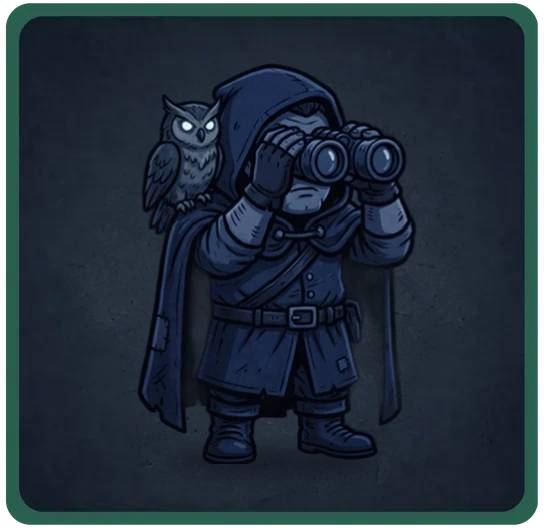
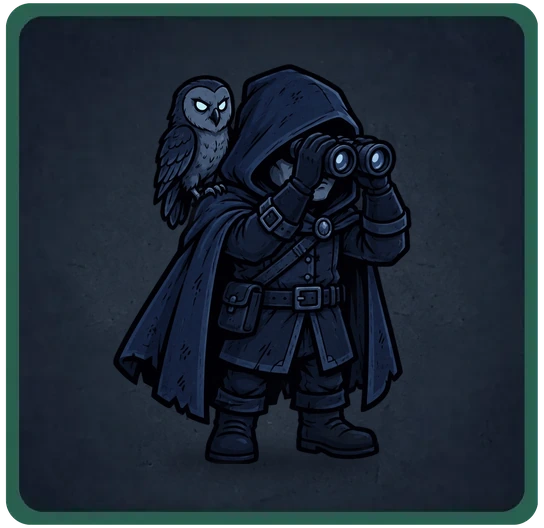
Tips for every role (39 more, drafted for Nik's review); new Watchman picture from Nik's Shutterstock card; service worker cache v5 (13 Nov)

Changed region(s): [[0.1875, 0.1212, 0.7812, 0.8788]]

diff --git a/src/tips.ts b/src/tips.ts
@@ -1,6 +1,6 @@
 // Tips on role cards (Nik, 13 Nov): 2 to 10 short pointers on how to play a role and use what it learns.
 // Drafted by Creative Coach from each card's rules, for Nik's review. Shown under the Attack and Defence block.
-// Investigative roles first (Detective approved by Nik; the other seven drafted for review, 13 Nov).
+// Every role has tips (13 Nov): Detective approved by Nik; the rest drafted for his review.
 export const TIPS: Record<string, string[]> = {
   Archivist: [
     "You learn which roles are in play, not who has them. Use your list to test what people claim.",
@@ -68,5 +68,268 @@ export const TIPS: Record<string, string[]> = {
     "Follow players who claim a role: a Doctor who never visits anyone is not much of a Doctor.",
     "If your target was swapped or led astray, you see where they ended up, not where they meant to go.",
     "On a Fog Night, while the Hollowman lives, your result is random.",
+  ],
+
+  // Lanternkeepers: protective, killing, power and support (drafted for Nik's review, 13 Nov).
+  Guardsman: [
+    "Guard whoever the evil side most wants gone: a player who has just shared strong results.",
+    "If you die guarding, look at who else died that Night. One of them was probably the attacker.",
+    "You only strike visitors who meant harm, so a Doctor or investigator at your target's house is safe.",
+    "A Doctor on the same player keeps you alive: only the attacker dies.",
+    "If your target dies anyway, it was something you can't stop: the Assassin, a Debt, the Trigger or the Veteran.",
+    "Being told you saved someone means they were attacked, so they are unlikely to be on the attacker's side.",
+  ],
+  Doctor: [
+    "Heal the players with the most to lose: investigators who have shared results, or anyone the town now trusts.",
+    "Being told your Heal saved someone means they were attacked. That is a good sign they are not evil.",
+    "Keep your self-Heal for the Night after you go public, when you are most likely to be hit.",
+    "On a Clear Night, healing the Hollowman's target saves them but costs your life.",
+    "A healed player who dies anyway was hit by an Absolute Attack: the Assassin, a Debt, the Trigger or the Rogue's guilt.",
+    "Healing a Guardsman lets him survive his own strike back.",
+  ],
+  Hunter: [
+    "Set your trap on the player the evil side is most likely to visit, such as someone loud with results.",
+    "A trap that never goes off means nobody has visited that player since you set it.",
+    "Lanternkeeper visitors get Held too, so trapping a popular player can block your own Doctor or investigators.",
+    "You still build your trap if you are Held or led astray, so odd Nights are never wasted.",
+    "If an evil visitor dies to your trap, your target is likely on the town's side.",
+  ],
+  Veteran: [
+    "You have two Alerts. Save them for Nights you expect visitors, such as after you've drawn attention in the Day.",
+    "On Alert you kill every visitor, Doctors and investigators included. Tell trusted players when to stay away.",
+    "Compare the number you killed with the deaths at dawn to work out who visited you.",
+    "Letting the town think you might be on Alert can keep the evil side away from you.",
+    "A Doctor can save the visitors you kill, but a Guardsman can't.",
+  ],
+  Rogue: [
+    "You have one bullet. Wait until two or more results point the same way.",
+    "Shooting a Lanternkeeper kills you the next Night. Framed and Disguised make no difference: only their true side counts.",
+    "A Light Attack fails against any defence, so the Godfather and the Cartel's leaders survive it. Aim at players with none.",
+    "Your shot is a good answer to a player the town can't agree to vote out.",
+    "If you are raised by the Priest, you get one bullet back.",
+  ],
+  Mayor: [
+    "Reveal when your three votes decide a Trial, not before. Until then you are just another voice.",
+    "Once Revealed you are the evil side's top target, and your own Protective roles can't help you.",
+    "Pass on what you know before you Reveal. Afterwards you can't have private conversations.",
+    "The narrator confirms a real Reveal. A player who claims to be Mayor but never Reveals is worth doubting.",
+    "If the Swindler Deals your role away before you Reveal, your Reveal won't happen.",
+  ],
+  Judge: [
+    "Condemn only works when nobody is on Trial. Use it when the vote stalls on a player you're sure of.",
+    "Condemning a Lanternkeeper costs your life, so wait for results that agree.",
+    "Your Condemn still reaches a player sent away by Passage.",
+    "Once Revealed you are a target and can't be protected by your side. Reveal when you have a clear suspect.",
+    "You can Condemn once every Day for as long as you live, so one Reveal can decide several Days.",
+  ],
+  Warden: [
+    "Patrol an investigator to check their claims. If they are honest, their results match what they tell the town.",
+    "Patrol a suspect: if they receive an exact role at Night, they are the Informant or the Notary.",
+    "Patrol the players most likely to be attacked. If they die, you learn who killed them.",
+    "You can't Patrol the same player three Nights in a row, so plan a second target.",
+    "Deceptive roles can change what you receive, so check a surprising result against others.",
+  ],
+  Innkeeper: [
+    "Drawing a suspected killer saves their target, but their attack lands on you.",
+    "Your shelter gives every visitor Light Defence, whatever their side. That can save an evil visitor from a Light Attack too.",
+    "A drawn player isn't told, so a player whose result makes no sense may have been drawn to you.",
+    "Draw the player you think is the evil side's Holder: their Hold lands on you instead of a protector.",
+    "If you are Held, nobody gets your shelter that Night.",
+  ],
+  Locksmith: [
+    "Hold the player you think is a killer. A Held killer kills nobody.",
+    "Never Hold the Ripper, or the Hollowman on a Clear Night: you will be attacked. If a Locksmith dies after a Hold, the town should look hard at who was Held.",
+    "A player who says they were Held when you didn't Hold them was Held by the evil side, or is lying.",
+    "The Fence can move your Hold to a neighbour, and the Pawnbroker can draw it. A Hold that seems to do nothing may have been moved.",
+    "Holding a Lanternkeeper by mistake stops their ability for the Night, so be careful with players who claim to protect or investigate.",
+  ],
+  Medium: [
+    "Wait for a strong Lanternkeeper to die. A fresh Doctor, Veteran or Rogue is worth more than an early pick.",
+    "A failed channel means the dead player was not a Lanternkeeper, or was a Power role. That is information the town doesn't have.",
+    "Once you take a new role, you are that role. Decide whether to tell the town, since you may become a target.",
+    "If you and the Priest pick the same dead player, you still become their role.",
+  ],
+  Priest: [
+    "Raise a Lanternkeeper who mattered: an investigator with results to finish, or a Veteran or Rogue.",
+    "A failed raising tells you the dead player was not a Lanternkeeper. You keep your raising for another Night.",
+    "Raised players come back clean: no Debt, Plant or Frame from before.",
+    "The whole town sees a lantern relit, so a raising also tells everyone a Priest is alive.",
+    "Raising a body the Coroner wanted stops them using it that Night.",
+  ],
+  Ferryman: [
+    "Swap a likely target with a suspect, and the attack may land on the suspect instead.",
+    "Swapped players are told, so warn a trusted player in advance and they'll know it was you.",
+    "Your swap always goes first. If the Smuggler targets a player you swapped, their swap fails.",
+    "Swapping also moves investigators' visits, so their results end up about the other player. Don't confuse your own side.",
+    "Swaps don't save Planted players from the Trigger.",
+  ],
+
+  // Syndicate (drafted for Nik's review, 13 Nov).
+  Mobster: [
+    "Agree the target with the Godfather in the Night chat. His choice beats yours.",
+    "When you carry out the hit, investigators see your visit, not his. You are the one most likely to be caught.",
+    "A Light Attack fails against any defence. Pick players unlikely to be protected or on Alert.",
+    "If the Godfather dies you take his place, so staying alive matters.",
+    "A Constable reads you Evil. Have a believable claim ready before the Day.",
+  ],
+  Godfather: [
+    "The Constable, Oracle and Seer read you as a Lanternkeeper. The Detective and the Spy don't.",
+    "Let the Mobster carry out the hit: his visit is the one investigators see.",
+    "Your Light Defence stops the Rogue's shot and the Ripper.",
+    "Agree a backup target with the Mobster in case you are Held.",
+    "Hitting a guarded player can cost you the Mobster to the Guardsman's strike back.",
+  ],
+  Enforcer: [
+    "Hold whoever is most likely to protect or investigate tonight's target.",
+    "Holding the Veteran stops his Alert, which makes him safe to hit that Night.",
+    "Never Hold the Ripper, or the Hollowman on a Clear Night.",
+    "Held players are told, and they'll say so in the Day. If the town knows a Locksmith is alive, the blame may fall there.",
+  ],
+  Informant: [
+    "Exact roles let the Syndicate choose: find the Doctor, the Guardsman and the investigators first.",
+    "A Tinkerer result may be a Planted player. The real Tinkerer is Unbound, not on your list of allies.",
+    "You see past your own Framer: Framed players still show their true role.",
+    "You know real roles, so you can make a convincing false claim as an investigator in the Day.",
+  ],
+  Fence: [
+    "Lead the Doctor or Guardsman away from tonight's target.",
+    "Leading the Locksmith astray moves their Hold, even when it was meant for you.",
+    "You can't lead astray the Seer, the Ferryman or the Assassin, so don't waste a Night on them.",
+    "A Tracker who reports a visit to an odd house may have followed someone you sent there.",
+  ],
+  Tailor: [
+    "Disguise the Syndicate member most likely to be checked, such as one who drew suspicion today.",
+    "Dress them as a living Lanternkeeper with a believable role. A disguise as a dead player can look strange to a Watchman.",
+    "A disguise lasts only until the next Night, so disguise again whoever is still at risk.",
+    "A Planted Syndicate member still shows Killing to the Detective, disguise or not.",
+    "You can disguise yourself when you are the one under suspicion.",
+  ],
+  Framer: [
+    "Frame the player the town trusts most. A Constable's Evil result can get them voted out.",
+    "Frame the players investigators are likely to check, such as the loudest voices.",
+    "The Detective sees a Framed player as Deceptive and the Informant sees the truth, so vary your targets.",
+    "A Frame beats the Tinkerer's Plant on the same player.",
+  ],
+
+  // Cartel (drafted for Nik's review, 13 Nov).
+  "Harbour Master": [
+    "Passage on odd Nights: ship out a Cartel member who is about to be voted on, or a player who would swing the vote.",
+    "Only the Judge can still Condemn a player you shipped out.",
+    "Guns on even Nights turn a Cartel member's visit into a kill as well. A Notary or Quartermaster with Guns does both.",
+    "You read as a Lanternkeeper to the Constable, Oracle and Seer, and your Light Defence stops the Rogue.",
+  ],
+  "Loan Shark": [
+    "Debtors aren't told who you are and must guess who to pay. Stay unsuspected and they'll guess wrong.",
+    "Anyone who visits you falls into Debt, so investigators and Doctors pay for coming near you.",
+    "You learn the exact role of everyone you visit and everyone who visits you. Share it in the Cartel chat.",
+    "A debtor who is Held can't pay. A Quartermaster's Hold on their Collection Night makes the Debt certain.",
+    "If you die, every Debt clears. Keeping you alive matters to the whole Cartel.",
+  ],
+  Kingpin: [
+    "Command the member whose ability is worth most twice: two checks for the Notary, two Holds for the Quartermaster.",
+    "The rest of the Cartel doesn't know you. Read the Night chat and choose quietly.",
+    "Your Heavy Defence lasts only while another Cartel member is alive.",
+    "Once you are alone, recruit a Foreman. A failed recruit means that player is a Power role or an Unbound killer.",
+    "You read as a Lanternkeeper to the Constable, Oracle and Seer.",
+  ],
+  Foreman: [
+    "You are the Cartel's main killer, and the Kingpin can't Command you.",
+    "You don't know the Kingpin. An attack that fails on an unprotected player may have hit his Heavy Defence.",
+    "A Constable reads you Evil. Have a believable claim ready.",
+    "If you die, another Cartel member may take your place, so the killing doesn't have to stop with you.",
+  ],
+  Quartermaster: [
+    "Your Hold also gives Heavy Defence. Never Hold the player your Foreman is attacking.",
+    "Hold a debtor on their Collection Night: they can't pay, and the Debt's Absolute Attack beats your Heavy Defence.",
+    "Hold the Doctor or Guardsman protecting tonight's target.",
+    "Never Hold the Ripper, or the Hollowman on a Clear Night.",
+  ],
+  Paymaster: [
+    "Bribe a swing voter: their vote counts zero and yours counts two, a two-vote swing on a close Trial.",
+    "A bribe on a Power role fails, so don't spend it on the Mayor or the Judge.",
+    "Bribe the player most likely to vote against a Cartel member on Trial.",
+    "Vote with the crowd when you can. A lone double vote stands out.",
+  ],
+  Coroner: [
+    "Borrow a dead investigator's ability to check a player of your choice.",
+    "You learn the dead player's role, a private confirmation the town doesn't get until the end.",
+    "A Tracker sees you visit the dead, which narrows you to the Medium, Priest or Coroner. Claim one of the other two.",
+    "If the Priest raises your body that Night, you lose it. Pick bodies the Priest is unlikely to want.",
+  ],
+  Notary: [
+    "Find the Doctor and the investigators for the Foreman.",
+    "A Tinkerer result may be a Planted player.",
+    "With the Kingpin's Command you check two players; with the Harbour Master's Guns your check is also a kill.",
+    "Exact roles let you make a convincing false claim as an investigator.",
+  ],
+  Forger: [
+    "Visit the investigator most likely to check a Cartel member tonight.",
+    "A forged result is false even on a Fog Night, and it sounds certain. That can get a Lanternkeeper voted out.",
+    "Forging only works on Investigative roles. Use the Notary's and Loan Shark's results to find them first.",
+    "If an investigator's claims start to clash with everyone else's, the town may stop trusting them. Keep at it.",
+  ],
+  Smuggler: [
+    "Swap tonight's target with the player the Doctor is likely to Heal, so the protection lands in the wrong house.",
+    "If your swap fails, the Ferryman touched one of your players. He is in the game.",
+    "You can't be Held, so your swap always happens unless the Ferryman got there first.",
+    "Swapped players are told, so the town learns a swapper is active. Be ready to claim Ferryman.",
+  ],
+  Pawnbroker: [
+    "Draw the Doctor or Guardsman: their protection lands on you and leaves tonight's target open.",
+    "Draw the Locksmith and their Hold lands on you instead of a Cartel member.",
+    "Don't draw an investigator: their check lands on you, and a Detective would see Deceptive.",
+    "Drawing a killer brings their attack to you, and you have no defence.",
+  ],
+  Swindler: [
+    "Deal a Power role away before it is Revealed. An unrevealed Mayor or Judge loses their Reveal that Night.",
+    "Players are told their new role but not who had it, so the Day's claims stop matching. Use the confusion.",
+    "Statuses stay with the player: a debtor stays in Debt, and a Planted player stays Planted.",
+    "You get one Deal. Wait for a target that changes the game, and keep it if it fails.",
+  ],
+
+  // Unbound (drafted for Nik's review, 13 Nov).
+  Tinkerer: [
+    "Plant quietly for several Nights, then Trigger once to kill every Planted player at once.",
+    "Everyone who visits you gets Planted, so investigators who check you are walking into it.",
+    "Planted players look evil to investigators, so the town may vote them out for you.",
+    "The Night you Trigger, you plant nobody. Pick the moment when your list is longest.",
+    "Players raised by the Priest come back clean, without your explosive.",
+  ],
+  Ripper: [
+    "You win only as the last one standing. Let the town and the evil side thin each other out.",
+    "Your Light Attack fails against any defence. Pick players with none.",
+    "Anyone who Holds you is attacked automatically, so the Locksmith and the Enforcer may come to you.",
+    "Your Light Defence stops the Rogue, the Mobster and the Foreman.",
+  ],
+  Hollowman: [
+    "On a Clear Night, pick a player many will visit, such as someone likely to be protected and checked. You hit the visitors too.",
+    "On a Fog Night you can't attack, but every result is random. Let the town argue over bad information.",
+    "A Doctor who Heals your target dies in their place.",
+    "Anyone who Holds you on a Clear Night is attacked.",
+    "You have only Light Defence on Clear Nights, so don't draw attention before one.",
+  ],
+  Assassin: [
+    "Your two targets are on opposing sides. Find one, and you know which side the other is on.",
+    "Use the town's public results and claims to match roles to players.",
+    "You read Evil to the Constable and an enemy to the Seer, so avoid drawing checks.",
+    "A Tracker who follows you sees two visits, which narrows you to five roles. Have a claim ready.",
+    "You win the moment you name both correctly on the same Night, whatever happens to you afterwards.",
+  ],
+  "Town Crier": [
+    "Build a case against your target slowly. A sudden push looks suspicious.",
+    "You read Evil to the Constable, so a check can turn the town against you instead.",
+    "If your target dies any other way, you become the Martyr and want to be voted out yourself.",
+    "Your target is never a Lanternkeeper Power role, so a Revealed Mayor or Judge isn't the one.",
+  ],
+  Martyr: [
+    "You win by being voted out. Act suspicious enough for a Trial, but not so much that the evil side kills you at Night.",
+    "You read Innocent to the Constable and as a Lanternkeeper to the Seer and Oracle, so investigators may defend you. Keep your claim vague.",
+    "When you're voted out your role is revealed, and the town learns it was fooled.",
+  ],
+  Outcast: [
+    "You win by being alive at the end, whoever else wins.",
+    "You never visit, so traps, the Veteran's Alert and the Tinkerer can't catch you as a visitor.",
+    "You read Innocent and as a Lanternkeeper to investigators. Siding with the town keeps you off the Trial list.",
+    "Your Light Defence stops Light Attacks from the Mobster, Foreman, Rogue and Ripper, but nothing Heavy or Absolute. Stay low-key.",
   ],
 };

diff --git a/public/sw.js b/public/sw.js
@@ -1,7 +1,7 @@
 // Lanterns & Lies service worker (12 Nov): fast reopening and push notifications.
 // Built files have hashed names, so they never change: cache first. Pictures and fonts keep their names, so they
 // are served from the cache at once and refreshed in the background. The page itself always tries the network first.
-const CACHE = "lnl-v4"; // v4: new Coroner picture (13 Nov)
+const CACHE = "lnl-v5"; // v5: new Watchman picture (13 Nov)
 const SCOPE = self.registration.scope;
 
 self.addEventListener("install", () => self.skipWaiting());
